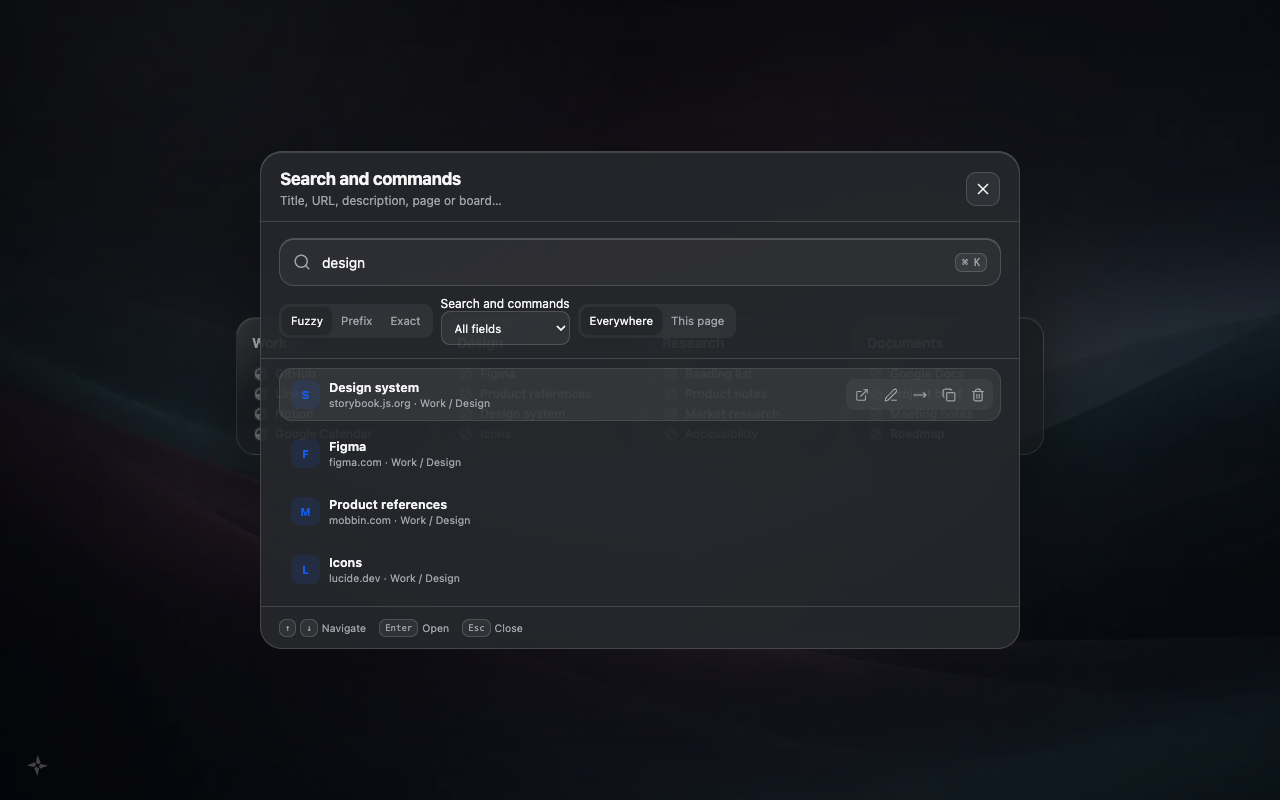
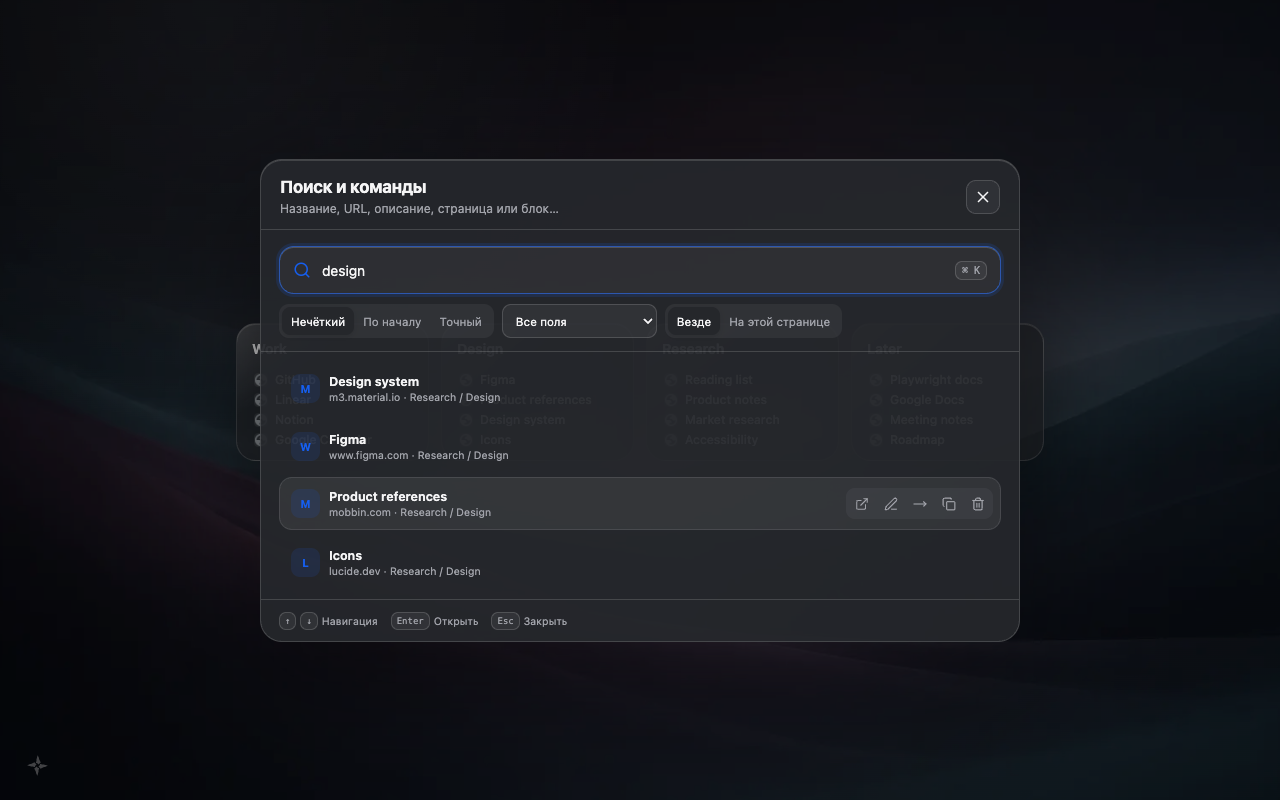
test(store): capture current MV3 release screenshots

Changed region(s): [[0.2188, 0.1875, 0.7812, 0.6562], [0.1875, 0.6875, 0.4375, 0.8125]]

diff --git a/e2e/extension.spec.ts b/e2e/extension.spec.ts
@@ -32,6 +32,19 @@ async function openLauncher(page: Page): Promise<void> {
   await page.getByRole("button", { name: "Открыть меню Asterfold" }).click();
 }
 
+async function captureStoreScreenshot(page: Page, filename: string): Promise<void> {
+  if (!captureScreenshots) return;
+  const previousViewport = page.viewportSize();
+  await page.setViewportSize({ width: 1280, height: 800 });
+  await page.waitForTimeout(220);
+  await page.screenshot({ path: join(screenshotPath, filename) });
+  if (previousViewport) await page.setViewportSize(previousViewport);
+}
+
+async function dismissToasts(page: Page): Promise<void> {
+  await expect(page.locator(".toast")).toHaveCount(0, { timeout: 8_000 });
+}
+
 async function setWorkspaceLocale(page: Page, locale: string): Promise<void> {
   await page.evaluate(async (nextLocale) => {
     const request = indexedDB.open("asterfold");
@@ -76,6 +89,99 @@ async function setWorkspaceThemeMode(page: Page, mode: "light" | "dark"): Promis
     });
     database.close();
   }, mode);
+}
+
+async function seedStoreShowcase(page: Page): Promise<void> {
+  await page.evaluate(async () => {
+    const request = indexedDB.open("asterfold");
+    const database = await new Promise<IDBDatabase>((resolvePromise, reject) => {
+      request.onsuccess = () => resolvePromise(request.result);
+      request.onerror = () => reject(request.error ?? new Error("Unable to open IndexedDB"));
+    });
+    const transaction = database.transaction(["boards", "bookmarks", "settings"], "readwrite");
+    const settingsStore = transaction.objectStore("settings");
+    const settings = await new Promise<Record<string, unknown> & { activePageId: string; theme: Record<string, unknown> }>((resolvePromise, reject) => {
+      const get = settingsStore.get("app");
+      get.onsuccess = () => resolvePromise(get.result as Record<string, unknown> & { activePageId: string; theme: Record<string, unknown> });
+      get.onerror = () => reject(get.error ?? new Error("Unable to read settings"));
+    });
+    const boards = [
+      { id: "showcase-work", title: "Work", items: [["GitHub", "https://github.com/"], ["Linear", "https://linear.app/"], ["Notion", "https://www.notion.so/"], ["Google Calendar", "https://calendar.google.com/"]] },
+      { id: "showcase-design", title: "Design", items: [["Figma", "https://www.figma.com/"], ["Product references", "https://mobbin.com/"], ["Design system", "https://m3.material.io/"], ["Icons", "https://lucide.dev/"]] },
+      { id: "showcase-research", title: "Research", items: [["Reading list", "https://developer.chrome.com/docs/extensions/"], ["Product notes", "https://www.notion.so/"], ["Market research", "https://trends.google.com/"], ["Accessibility", "https://www.w3.org/WAI/"]] },
+      { id: "showcase-later", title: "Later", items: [["Playwright docs", "https://playwright.dev/docs/chrome-extensions"], ["Google Docs", "https://docs.google.com/"], ["Meeting notes", "https://www.notion.so/"], ["Roadmap", "https://linear.app/"]] },
+    ] as const;
+    const timestamp = new Date().toISOString();
+    transaction.objectStore("boards").clear();
+    transaction.objectStore("bookmarks").clear();
+    boards.forEach((board, boardIndex) => {
+      transaction.objectStore("boards").put({
+        id: board.id,
+        userId: null,
+        pageId: settings.activePageId,
+        title: board.title,
+        icon: null,
+        accent: null,
+        position: String(boardIndex + 1).padStart(12, "0"),
+        collapsed: false,
+        layout: "list",
+        bookmarkColumns: 1,
+        gridColumn: boardIndex * 3 + 1,
+        gridRow: 0,
+        gridSpan: 3,
+        createdAt: timestamp,
+        updatedAt: timestamp,
+        deletedAt: null,
+        deletedBatchId: null,
+        version: 1,
+      });
+      board.items.forEach(([title, url], itemIndex) => {
+        transaction.objectStore("bookmarks").put({
+          id: `showcase-${boardIndex}-${itemIndex}`,
+          userId: null,
+          boardId: board.id,
+          title,
+          url,
+          normalizedUrl: url,
+          hostname: new URL(url).hostname,
+          description: null,
+          faviconUrl: null,
+          customIcon: null,
+          position: String(itemIndex + 1).padStart(12, "0"),
+          openMode: "current",
+          pinned: false,
+          createdAt: timestamp,
+          updatedAt: timestamp,
+          deletedAt: null,
+          deletedBatchId: null,
+          version: 1,
+        });
+      });
+    });
+    settingsStore.put({
+      ...settings,
+      workspaceRows: 1,
+      workspaceLayoutMode: "auto",
+      workspaceAlignment: "center",
+      theme: {
+        ...settings.theme,
+        mode: "dark",
+        backgroundMode: "wallpaper",
+        wallpaperId: "builtin-dusk",
+        surfaceOpacity: 0.68,
+        blur: 14,
+        wallpaperDim: 0.42,
+        wallpaperBlur: 0,
+        wallpaperSaturation: 0.88,
+      },
+      updatedAt: timestamp,
+    });
+    await new Promise<void>((resolvePromise, reject) => {
+      transaction.oncomplete = () => resolvePromise();
+      transaction.onerror = () => reject(transaction.error ?? new Error("Unable to write Store showcase"));
+    });
+    database.close();
+  });
 }
 
 async function seedScaleFixture(page: Page): Promise<void> {
@@ -340,7 +446,6 @@ test.describe.serial("Asterfold MV3 release", () => {
     expect(sourceMenuBounds.top).toBeGreaterThanOrEqual(8);
     expect(sourceMenuBounds.right).toBeLessThanOrEqual(1440 - 8);
     expect(sourceMenuBounds.bottom).toBeLessThanOrEqual(900 - 8);
-    if (captureScreenshots) await page.screenshot({ path: join(screenshotPath, "context-menu-light.png") });
     await page.getByRole("menuitem", { name: "Переместить", exact: true }).click();
     dialog = page.getByRole("dialog");
     await dialog.getByLabel("Назначение").selectOption({ label: "Later" });
@@ -348,12 +453,22 @@ test.describe.serial("Asterfold MV3 release", () => {
     await expect(target.getByText("Playwright docs", { exact: true })).toBeVisible();
     await page.reload();
     await expect(target.getByText("Playwright docs", { exact: true })).toBeVisible();
+    if (captureScreenshots) {
+      await seedStoreShowcase(page);
+      await page.reload();
+      await expect(page.getByText("Playwright docs", { exact: true })).toBeVisible();
+    }
+    await captureStoreScreenshot(page, "01-workspace-1280x800.png");
 
     await page.keyboard.press("Control+K");
     dialog = page.getByRole("dialog");
     await expect(dialog.locator(".search-palette__input")).toHaveCSS("border-radius", "15px");
     await expect(dialog.locator(".search-state")).toHaveCSS("border-radius", "17px");
-    if (captureScreenshots) { await page.waitForTimeout(220); await page.screenshot({ path: join(screenshotPath, "search-empty.png") }); }
+    if (captureScreenshots) {
+      await dialog.getByPlaceholder(/Название, URL/u).fill("design");
+      await expect(dialog.getByRole("button", { name: /Design system/u })).toBeVisible();
+    }
+    await captureStoreScreenshot(page, "02-search-1280x800.png");
     await dialog.getByPlaceholder(/Название, URL/u).fill("playwrite");
     await expect(dialog.getByRole("button", { name: /Playwright docs/u })).toBeVisible();
     await page.keyboard.press("Escape");
@@ -365,6 +480,7 @@ test.describe.serial("Asterfold MV3 release", () => {
     await expect(page.locator('[title*="Playwright docs"]')).toHaveCount(0);
     const privateBookmark = page.getByRole("button", { name: "Открыть скрытую закладку" }).first();
     await expect(privateBookmark).toBeVisible();
+    await captureStoreScreenshot(page, "04-privacy-1280x800.png");
     await privateBookmark.click({ button: "right" });
     await expect(page.getByRole("menu", { name: "Действия скрытой закладки" })).toBeVisible();
     await expect(page.getByRole("menuitem", { name: "Копировать URL" })).toBeDisabled();
@@ -373,9 +489,12 @@ test.describe.serial("Asterfold MV3 release", () => {
     await openLauncher(page);
     await page.getByRole("menuitem", { name: "Выключить приватность" }).click();
 
+    if (captureScreenshots) await dismissToasts(page);
     await openLauncher(page);
     await page.getByRole("menuitem", { name: "Настройки" }).click();
     dialog = page.getByRole("dialog");
+    await expect(dialog).toBeVisible();
+    await captureStoreScreenshot(page, "03-settings-1280x800.png");
     const lowPowerToggle = dialog.locator('label.switch:has(input[aria-label="Режим для слабых ПК"])');
     await expect(lowPowerToggle).toHaveCount(1);
     await lowPowerToggle.click();
@@ -399,7 +518,7 @@ test.describe.serial("Asterfold MV3 release", () => {
     await page.getByRole("menuitem", { name: "Корзина" }).click();
     dialog = page.getByRole("dialog");
     await expect(dialog.locator(".trash-row")).toHaveCSS("border-radius", "14px");
-    if (captureScreenshots) { await page.waitForTimeout(220); await page.screenshot({ path: join(screenshotPath, "trash-item.png") }); }
+    await captureStoreScreenshot(page, "05-trash-1280x800.png");
     await dialog.getByRole("button", { name: "Восстановить" }).click();
     await dialog.getByRole("button", { name: "Закрыть" }).click();
     await expect(page.getByText("Playwright docs", { exact: true })).toBeVisible();
@@ -408,7 +527,6 @@ test.describe.serial("Asterfold MV3 release", () => {
     await page.getByRole("menuitem", { name: "Корзина" }).click();
     dialog = page.getByRole("dialog");
     await expect(dialog.locator(".trash-empty")).toHaveCSS("border-radius", "18px");
-    if (captureScreenshots) { await page.waitForTimeout(220); await page.screenshot({ path: join(screenshotPath, "trash-empty.png") }); }
     await dialog.getByRole("button", { name: "Закрыть" }).click();
 
     await setWorkspaceThemeMode(page, "dark");
@@ -442,12 +560,10 @@ test.describe.serial("Asterfold MV3 release", () => {
     expect(cornerMenuBounds.right).toBeLessThanOrEqual(1280 - 8);
     expect(cornerMenuBounds.bottom).toBeLessThanOrEqual(720 - 8);
     await page.keyboard.press("Escape");
-    if (captureScreenshots) await page.screenshot({ path: join(screenshotPath, "scale-1280x720.png") });
     await page.setViewportSize({ width: 1672, height: 941 });
     expect(await page.evaluate(() => document.documentElement.scrollHeight <= innerHeight)).toBe(true);
     await page.setViewportSize({ width: 1920, height: 1080 });
     expect(await page.evaluate(() => document.documentElement.scrollHeight <= innerHeight)).toBe(true);
-    if (captureScreenshots) await page.screenshot({ path: join(screenshotPath, "scale-1920x1080.png") });
     expect(runtimeErrors).toEqual([]);
     await page.close();
   });
